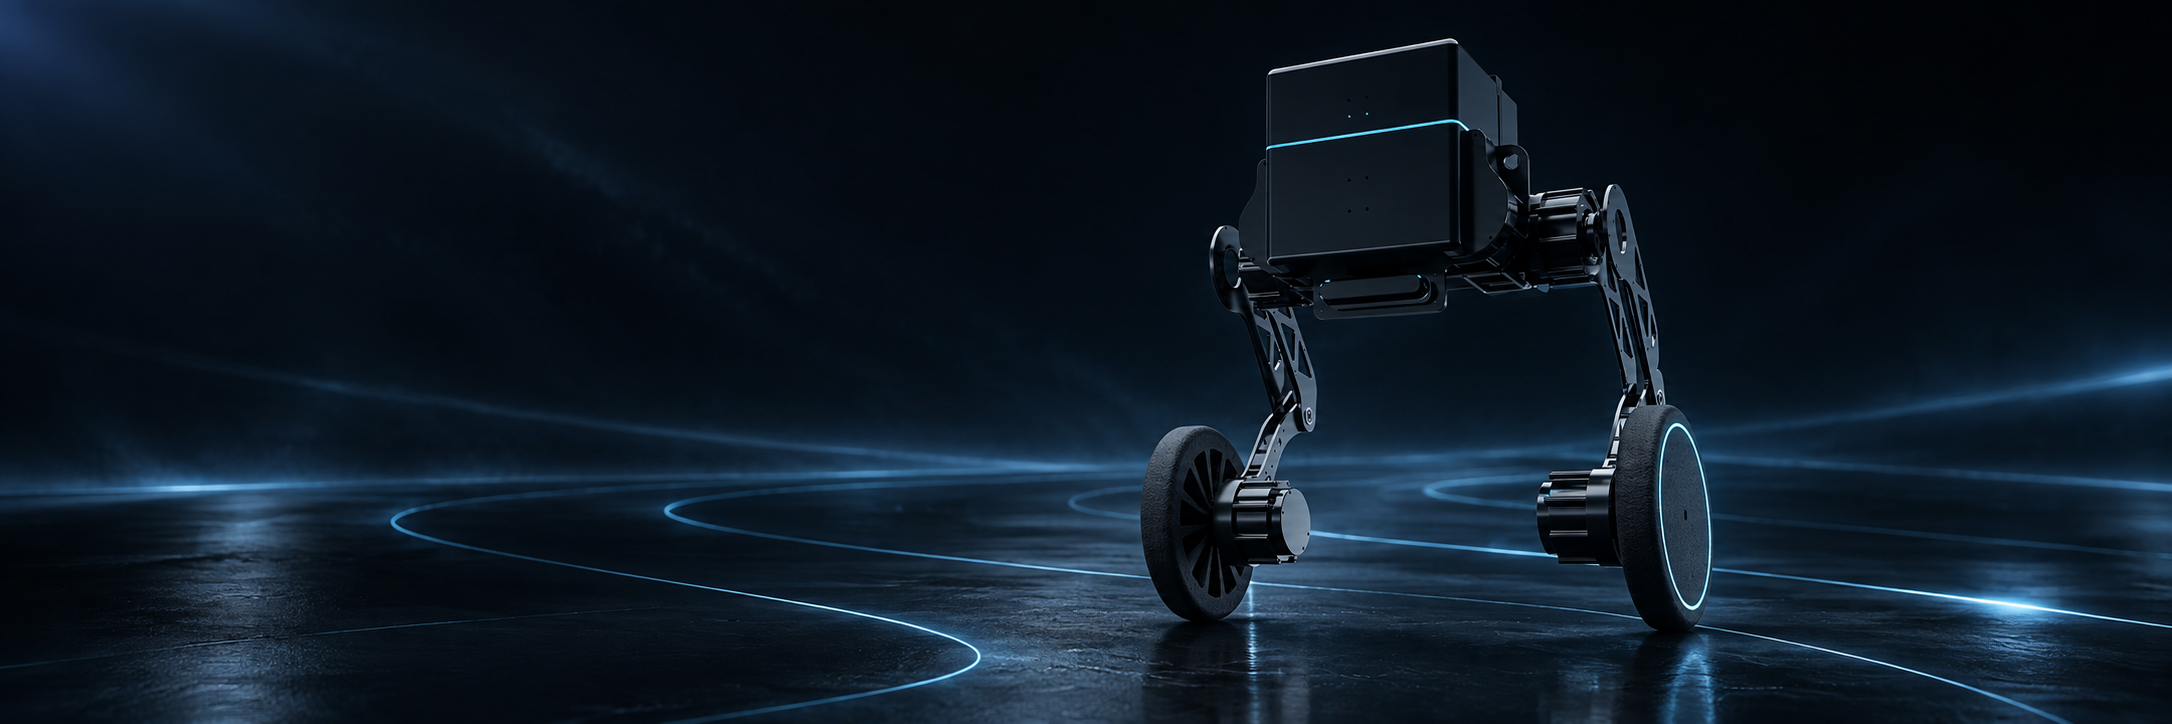
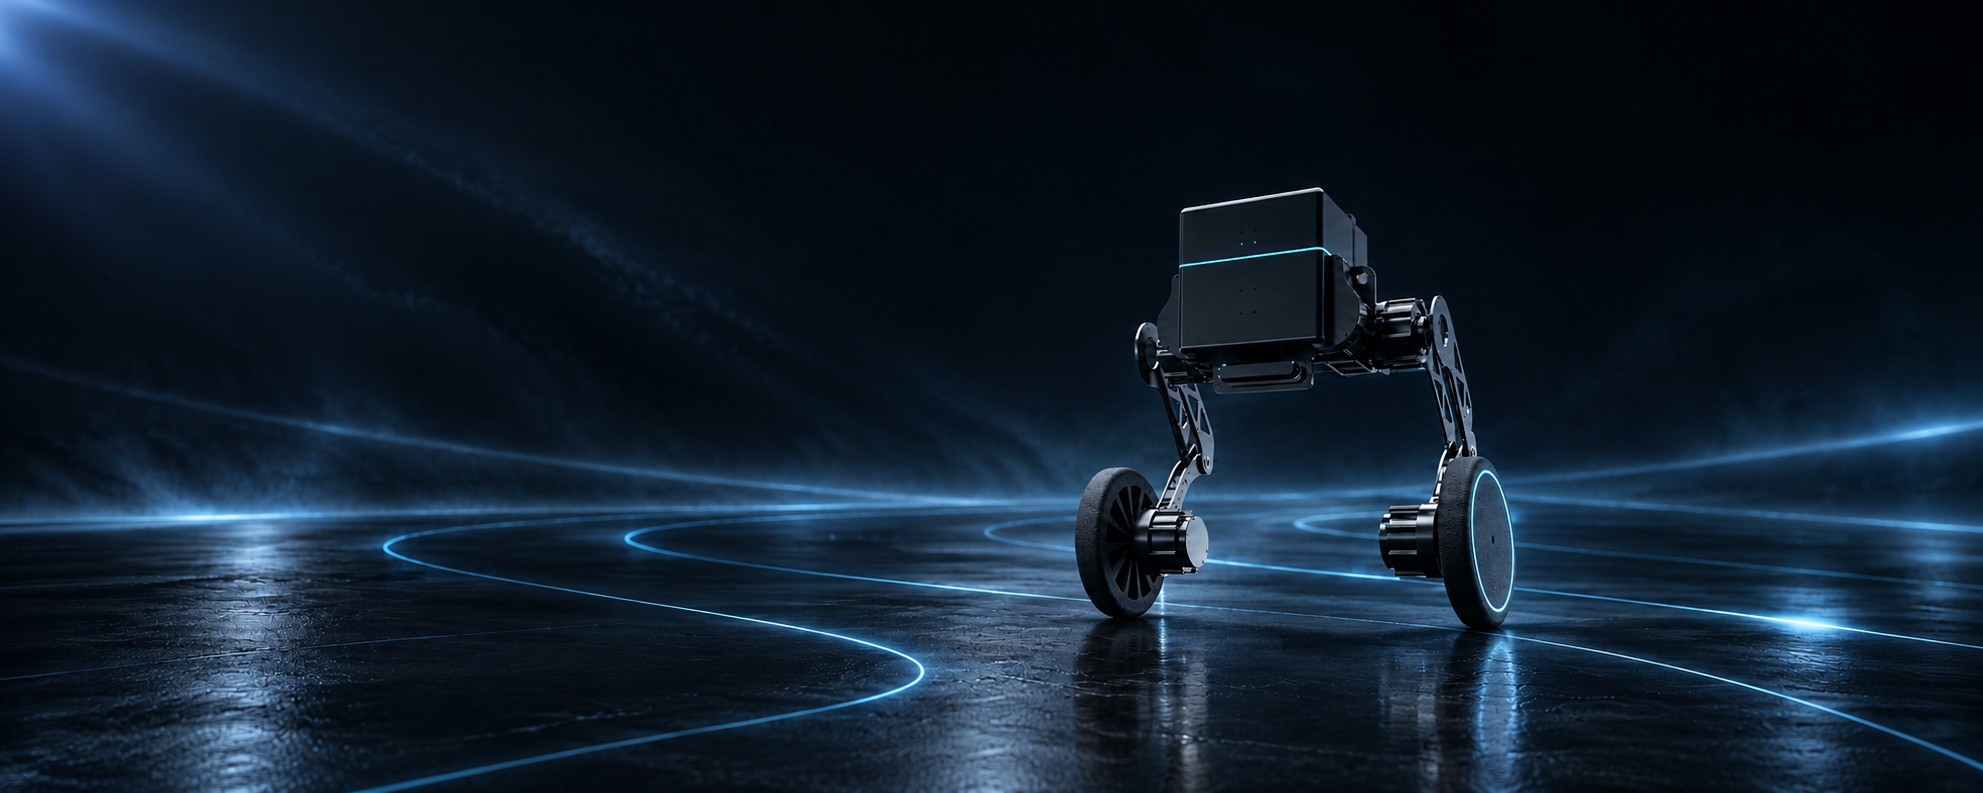
Major updates for prettier layout

diff --git a/src/components/home-publication-explorer.tsx b/src/components/home-publication-explorer.tsx
@@ -6,6 +6,7 @@ import { dictionary } from "@/lib/i18n";
 import { PublicationList } from "./publication-list";
 
 type HomePublicationType = "journal" | "conference";
+type HomeConferenceType = "international" | "domestic";
 
 export function HomePublicationExplorer({
   publications,
@@ -21,6 +22,7 @@ export function HomePublicationExplorer({
   const t = dictionary;
   const hasJournals = publications.some((publication) => publication.type === "journal");
   const [type, setType] = useState<HomePublicationType>(hasJournals ? "journal" : "conference");
+  const [conferenceType, setConferenceType] = useState<HomeConferenceType>("international");
   const visiblePublications = useMemo(
     () => publications.filter((publication) => publication.type === type).slice(0, limit),
     [publications, type, limit],
@@ -44,6 +46,8 @@ export function HomePublicationExplorer({
         .slice(0, domesticConferenceLimit),
     [publications, domesticConferenceLimit],
   );
+  const visibleConferences =
+    conferenceType === "international" ? internationalConferences : domesticConferences;
 
   return (
     <div className="home-publications">
@@ -61,23 +65,27 @@ export function HomePublicationExplorer({
         ))}
       </div>
       {type === "conference" ? (
-        <div className="conference-groups">
-          <section className="conference-group">
-            <h3 className="conference-group-title">{t.publications.internationalConference}</h3>
-            {internationalConferences.length ? (
-              <PublicationList publications={internationalConferences} t={t} featured />
-            ) : (
-              <p className="empty-state">{t.publications.empty}</p>
-            )}
-          </section>
-          <section className="conference-group">
-            <h3 className="conference-group-title">{t.publications.domesticConference}</h3>
-            {domesticConferences.length ? (
-              <PublicationList publications={domesticConferences} t={t} featured />
-            ) : (
-              <p className="empty-state">{t.publications.empty}</p>
-            )}
-          </section>
+        <div className="home-conference-panel">
+          <div className="conference-type-filters type-filters" role="group" aria-label="Conference type">
+            {(["international", "domestic"] as const).map((value) => (
+              <button
+                key={value}
+                type="button"
+                aria-pressed={conferenceType === value}
+                className={conferenceType === value ? "selected" : ""}
+                onClick={() => setConferenceType(value)}
+              >
+                {value === "international"
+                  ? t.publications.internationalConference
+                  : t.publications.domesticConference}
+              </button>
+            ))}
+          </div>
+          {visibleConferences.length ? (
+            <PublicationList publications={visibleConferences} t={t} featured />
+          ) : (
+            <p className="empty-state">{t.publications.empty}</p>
+          )}
         </div>
       ) : visiblePublications.length ? (
         <PublicationList publications={visiblePublications} t={t} featured />

diff --git a/src/app/globals.css b/src/app/globals.css
@@ -2808,5 +2808,144 @@ h2 {
   }
 }
 
+/* Final home hero and compact pagination adjustments. */
+.home-hero .hero-figure-image .home-motion-image {
+  animation: home-media-motion 5.5s ease-in-out infinite alternate;
+  min-height: 100%;
+  min-width: 100%;
+  object-fit: cover;
+  object-position: 58% center;
+  transform-origin: center;
+}
+
+.home-hero .hero-content h1 {
+  animation: hero-copy-in 720ms cubic-bezier(0.2, 0.8, 0.2, 1) 120ms forwards;
+  opacity: 0;
+}
+
+.home-hero .hero-research-link {
+  animation: hero-link-in 640ms cubic-bezier(0.2, 0.8, 0.2, 1) 560ms forwards;
+  opacity: 0;
+}
+
+.home-conference-panel .conference-type-filters {
+  margin-bottom: 12px;
+  padding-top: 6px;
+}
+
+.pagination {
+  flex-wrap: nowrap;
+  gap: 10px;
+}
+
+.pagination > span {
+  flex: 0 0 auto;
+  font-variant-numeric: tabular-nums;
+  min-width: 112px;
+  text-align: center;
+  white-space: nowrap;
+}
+
+.pagination button {
+  align-items: center;
+  display: inline-flex;
+  justify-content: center;
+  min-width: 82px;
+  white-space: nowrap;
+}
+
+.page-numbers {
+  flex: 0 0 auto;
+  gap: 6px;
+}
+
+.page-numbers button {
+  min-width: 38px;
+  padding: 0 10px;
+}
+
+@keyframes home-media-motion {
+  from { transform: scale(1.04); }
+  to { transform: scale(1.12); }
+}
+
+@keyframes hero-copy-in {
+  from {
+    opacity: 0;
+    transform: translateY(calc(-50% + 10px));
+  }
+  to {
+    opacity: 1;
+    transform: translateY(-50%);
+  }
+}
+
+@keyframes hero-link-in {
+  from {
+    opacity: 0;
+    transform: translateY(10px);
+  }
+  to {
+    opacity: 1;
+    transform: translateY(0);
+  }
+}
+
+@media (max-width: 760px) {
+  .home-hero .hero-figure-image .home-motion-image {
+    object-position: 62% center;
+  }
+
+  .pagination {
+    gap: 8px;
+    justify-content: center;
+    overflow-x: auto;
+    padding-bottom: 2px;
+  }
+
+  .pagination > span {
+    min-width: 116px;
+  }
+
+  .pagination button {
+    min-width: 80px;
+  }
+
+  .page-numbers button {
+    min-width: 38px;
+  }
+}
+
+@media (max-width: 360px) {
+  .pagination {
+    gap: 6px;
+  }
+
+  .pagination > span {
+    min-width: 112px;
+  }
+
+  .pagination button {
+    min-width: 76px;
+    padding-inline: 10px;
+  }
+
+  .page-numbers button {
+    min-width: 36px;
+    padding-inline: 8px;
+  }
+}
+
 @media (prefers-reduced-motion: reduce) {
+  .home-hero .hero-figure-image .home-motion-image,
+  .home-hero .hero-figure::after,
+  .home-hero .hero-content h1,
+  .home-hero .hero-research-link {
+    animation: none !important;
+  }
+
+  .home-hero .hero-content h1,
+  .home-hero .hero-research-link {
+    opacity: 1;
+  }
 }
